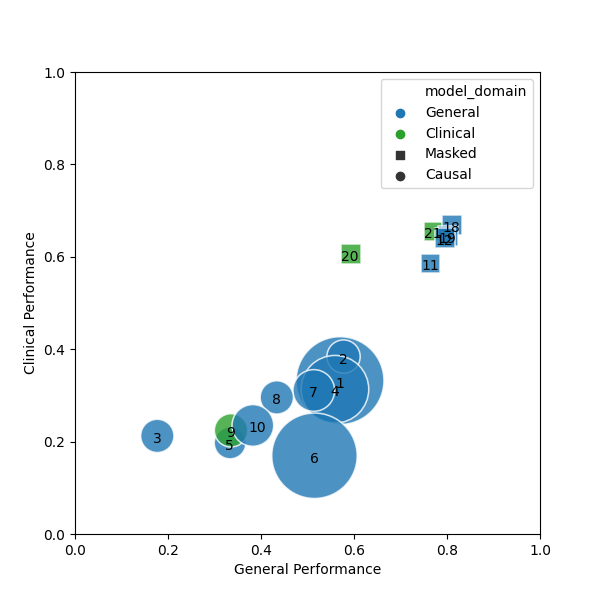
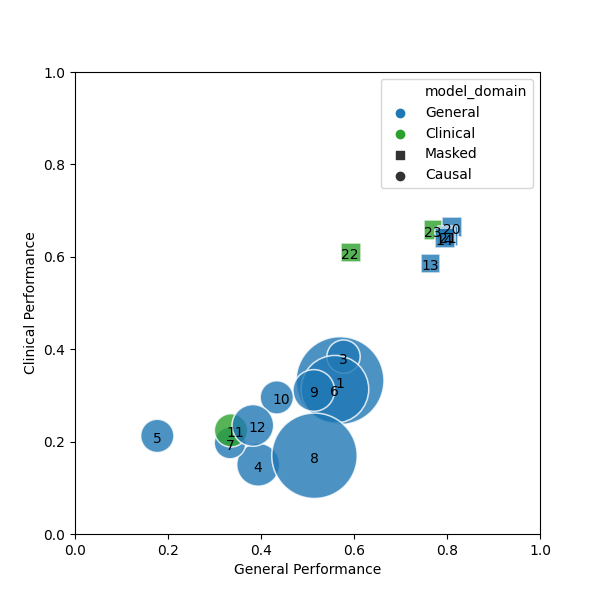
new results

diff --git a/tabs_and_plots/model_names_table.tex b/tabs_and_plots/model_names_table.tex
@@ -4,33 +4,35 @@
 \toprule
 & \# & Model & \makecell{Number of\\ parameters} & \makecell{Training data\\ size} & \makecell{Training corpus\\ language(s) and details} \\
 \midrule
-\multirow{10}{*}{\rotatebox[origin=c]{90}{Causal}} & 1 & LLAMA-2-70B\textsuperscript{\texttt{[en]}} \cite{touvron2023llama} & 70B & 2 trillion tokens & A mix of publicly available online data, mainly in English \\
- & 2 & Mistral-7B\textsuperscript{\texttt{[?]}} \cite{jiang2023mistral} & 7B & Undisclosed & Undisclosed \\
- & 3 & BLOOM-7B1\textsuperscript{\texttt{[en]}}\textsuperscript{\texttt{[fr]}}\textsuperscript{\texttt{[es]}} \cite{workshop2022bloom} & 7B & 1.6 TB & ROOTS \cite{laurenccon2022bigscience}, a mix of datasets and pseudo-crawled data 59 languages \\
- & 4 & Falcon-40B\textsuperscript{\texttt{[en]}}\textsuperscript{\texttt{[fr]}}\textsuperscript{\texttt{[es]}} & 40B & 1 trillion tokens & RefinedWeb \cite{penedo2023refinedweb}, a dataset of filtered and deduplicated web data \\
- & 5 & GPT-J-6B\textsuperscript{\texttt{[en]}} \cite{wang2021gptj} & 6B & 825 GiB & The Pile \cite{gao2020pile}, a mixture of public datasets and web data in English \\
- & 6 & OPT-66B\textsuperscript{\texttt{[en]}} \cite{zhang2022opt} & 66B & 180 billion tokens & Crawled data from the web, mainly in English \\
- & 7 & Vicuna-13B\textsuperscript{\texttt{[en]}}* \cite{zheng2023judging} & 13B & 125K conversations & LLAMA 2, fine-tuned on conversations collected from ShareGPT.com, mainly in English \\
- & 8 & Vicuna-7B\textsuperscript{\texttt{[en]}}* \cite{zheng2023judging} & 7B & 125K conversations & LLAMA 2, fine-tuned on conversations collected from ShareGPT.com, mainly in English \\
- & 9 & Medalpaca-7B\textsuperscript{\texttt{[en]}}* \cite{han2023medalpaca} & 7B & 400K Q.A. pairs & LLAMA 2, fine-tuned on semi-generated medical question-answer pairs in English \\
- & 10 & Vigogne-13B\textsuperscript{\texttt{[fr]}}\textsuperscript{\texttt{[en]}}* & 13B & 52K instructions & LLAMA 2, fine-tuned on English instructions automatically translated to French \\
+\multirow{12}{*}{\rotatebox[origin=c]{90}{Causal}} & 1 & LLAMA-2-70B\textsuperscript{\texttt{[en]}} \cite{touvron2023llama} & 70B & 2 trillion tokens & A mix of publicly available online data, mainly in English \\
+ & 2 & Llama-3-8B-Instruct\textsuperscript{\texttt{[en]}} & 8B & - & - \\
+ & 3 & Mistral-7B\textsuperscript{\texttt{[?]}} \cite{jiang2023mistral} & 7B & Undisclosed & Undisclosed \\
+ & 4 & Phi-3-medium-instruct\textsuperscript{\texttt{[en]}} & 14B & 4.8 trillion tokens & A combination of publicly available corpora, synthetic data and chat format supervised data, mainly in English \\
+ & 5 & BLOOM-7B1\textsuperscript{\texttt{[en]}}\textsuperscript{\texttt{[fr]}}\textsuperscript{\texttt{[es]}} \cite{workshop2022bloom} & 7B & 1.6 TB & ROOTS \cite{laurenccon2022bigscience}, a mix of datasets and pseudo-crawled data 59 languages \\
+ & 6 & Falcon-40B\textsuperscript{\texttt{[en]}}\textsuperscript{\texttt{[fr]}}\textsuperscript{\texttt{[es]}} & 40B & 1 trillion tokens & RefinedWeb \cite{penedo2023refinedweb}, a dataset of filtered and deduplicated web data \\
+ & 7 & GPT-J-6B\textsuperscript{\texttt{[en]}} \cite{wang2021gptj} & 6B & 825 GiB & The Pile \cite{gao2020pile}, a mixture of public datasets and web data in English \\
+ & 8 & OPT-66B\textsuperscript{\texttt{[en]}} \cite{zhang2022opt} & 66B & 180 billion tokens & Crawled data from the web, mainly in English \\
+ & 9 & Vicuna-13B\textsuperscript{\texttt{[en]}}* \cite{zheng2023judging} & 13B & 125K conversations & LLAMA 2, fine-tuned on conversations collected from ShareGPT.com, mainly in English \\
+ & 10 & Vicuna-7B\textsuperscript{\texttt{[en]}}* \cite{zheng2023judging} & 7B & 125K conversations & LLAMA 2, fine-tuned on conversations collected from ShareGPT.com, mainly in English \\
+ & 11 & Medalpaca-7B\textsuperscript{\texttt{[en]}}* \cite{han2023medalpaca} & 7B & 400K Q.A. pairs & LLAMA 2, fine-tuned on semi-generated medical question-answer pairs in English \\
+ & 12 & Vigogne-13B\textsuperscript{\texttt{[fr]}}\textsuperscript{\texttt{[en]}}* & 13B & 52K instructions & LLAMA 2, fine-tuned on English instructions automatically translated to French \\
 \midrule
-\multirow{16}{*}{\rotatebox[origin=c]{90}{Masked}} & 11 & mBERT\textsuperscript{\texttt{[en]}}\textsuperscript{\texttt{[fr]}}\textsuperscript{\texttt{[es]}} \cite{devlin2019bert} & 110M & Undisclosed & A corpus featuring 104 languages built from undisclosed sources \\
- & 12 & XLM-RoBERTa-large\textsuperscript{\texttt{[en]}}\textsuperscript{\texttt{[fr]}}\textsuperscript{\texttt{[es]}} \cite{conneau2020unsupervised} & 355M & 2.5 TB & Filtered CommonCrawl data containing 100 languages \\
- & 13 & BERT-large\textsuperscript{\texttt{[en]}} \cite{devlin2019bert} & 345M & 3,3 billion words & BookCorpus \cite{zhu2015aligning}, a dataset consisting of unpublished books and English Wikipedia. \\
- & 14 & RoBERTa-large\textsuperscript{\texttt{[en]}} \cite{liu2019roberta} & 355M & 160 GiB & BooksCorpus \cite{zhu2015aligning}, English Wikipedia, and crawled web data \\
- & 15 & Bio\_ClinicalBERT\textsuperscript{\texttt{[en]}} \cite{alsentzer2019publicly} & 110M & 2 million clinical notes & MIMIC-III \cite{johnson2016mimic}, a database containing electronic health records from hospitalized ICU patients \\
- & 16 & ClinicalBERT\textsuperscript{\texttt{[en]}} \cite{wang2023optimized} & 110M & 1.2 billion words & A large multi-center dataset with a corpus built from undisclosed sources \\
- & 17 & MedBERT\textsuperscript{\texttt{[en]}} \cite{charangan2022medbert} & 110M & 57 million words & Community datasets (including N2C2 \cite{luo2020n2c2}) and Crawled medical-related articles from Wikipedia \\
- & 18 & CamemBERT-large\textsuperscript{\texttt{[fr]}} \cite{martin2019camembert} & 335M & 64 billion tokens & OSCAR \cite{suarez2020monolingual}, a corpus of web data in French \\
- & 19 & FlauBERT-large\textsuperscript{\texttt{[fr]}} \cite{le2019flaubert} & 335M & 13 billion tokens & A mix of French Wikipedia, French books, and French web data \\
- & 20 & DrBERT-4GB\textsuperscript{\texttt{[fr]}} \cite{labrak2023drbert} & 110M & 1 billion words & A mix of publicly available biomedical corpora in French (including QuaeroFrenchMed \cite{neveol2014quaero}). \\
- & 21 & CamemBERT-bio\textsuperscript{\texttt{[fr]}} \cite{touchent2023camembertbio} & 110M & 413 million words & A mix of publicly available biomedical corpora in French (including E3C \cite{magnini2021e3c}). \\
- & 22 & BETO\textsuperscript{\texttt{[es]}} \cite{canete2020beto} & 110M & 3 billion words & Spanish Wikipedia and Spanish data from OPUS \cite{tiedemann2012parallel} \\
- & 23 & PatanaBERT\textsuperscript{\texttt{[es]}} & 110M & Undisclosed & Spanish \\
- & 24 & TulioBERT\textsuperscript{\texttt{[es]}} & 110M & Undisclosed & Spanish \\
- & 25 & BSC-BioEHR\textsuperscript{\texttt{[es]}} \cite{carrino2022pretrained} & 110M & 1.1 billion tokens & A mixture of biomedical community datasets including EHR documents and crawled data in Spanish \\
- & 26 & BSC-Bio\textsuperscript{\texttt{[es]}} \cite{carrino2022pretrained} & 110M & 963 million tokens & A mixture of biomedical community datasets and crawled data in Spanish \\
+\multirow{16}{*}{\rotatebox[origin=c]{90}{Masked}} & 13 & mBERT\textsuperscript{\texttt{[en]}}\textsuperscript{\texttt{[fr]}}\textsuperscript{\texttt{[es]}} \cite{devlin2019bert} & 110M & Undisclosed & A corpus featuring 104 languages built from undisclosed sources \\
+ & 14 & XLM-R-large\textsuperscript{\texttt{[en]}}\textsuperscript{\texttt{[fr]}}\textsuperscript{\texttt{[es]}} \cite{conneau2020unsupervised} & 355M & 2.5 TB & Filtered CommonCrawl data containing 100 languages \\
+ & 15 & BERT-large\textsuperscript{\texttt{[en]}} \cite{devlin2019bert} & 345M & 3,3 billion words & BookCorpus \cite{zhu2015aligning}, a dataset consisting of unpublished books and English Wikipedia. \\
+ & 16 & RoBERTa-large\textsuperscript{\texttt{[en]}} \cite{liu2019roberta} & 355M & 160 GiB & BooksCorpus \cite{zhu2015aligning}, English Wikipedia, and crawled web data \\
+ & 17 & Bio\_ClinicalBERT\textsuperscript{\texttt{[en]}} \cite{alsentzer2019publicly} & 110M & 2 million clinical notes & MIMIC-III \cite{johnson2016mimic}, a database containing electronic health records from hospitalized ICU patients \\
+ & 18 & ClinicalBERT\textsuperscript{\texttt{[en]}} \cite{wang2023optimized} & 110M & 1.2 billion words & A large multi-center dataset with a corpus built from undisclosed sources \\
+ & 19 & MedBERT\textsuperscript{\texttt{[en]}} \cite{charangan2022medbert} & 110M & 57 million words & Community datasets (including N2C2 \cite{luo2020n2c2}) and Crawled medical-related articles from Wikipedia \\
+ & 20 & CamemBERT-large\textsuperscript{\texttt{[fr]}} \cite{martin2019camembert} & 335M & 64 billion tokens & OSCAR \cite{suarez2020monolingual}, a corpus of web data in French \\
+ & 21 & FlauBERT-large\textsuperscript{\texttt{[fr]}} \cite{le2019flaubert} & 335M & 13 billion tokens & A mix of French Wikipedia, French books, and French web data \\
+ & 22 & DrBERT-4GB\textsuperscript{\texttt{[fr]}} \cite{labrak2023drbert} & 110M & 1 billion words & A mix of publicly available biomedical corpora in French (including QuaeroFrenchMed \cite{neveol2014quaero}). \\
+ & 23 & CamemBERT-bio\textsuperscript{\texttt{[fr]}} \cite{touchent2023camembertbio} & 110M & 413 million words & A mix of publicly available biomedical corpora in French (including E3C \cite{magnini2021e3c}). \\
+ & 24 & BETO\textsuperscript{\texttt{[es]}} \cite{canete2020beto} & 110M & 3 billion words & Spanish Wikipedia and Spanish data from OPUS \cite{tiedemann2012parallel} \\
+ & 25 & PatanaBERT\textsuperscript{\texttt{[es]}} & 110M & Undisclosed & Spanish \\
+ & 26 & TulioBERT\textsuperscript{\texttt{[es]}} & 110M & Undisclosed & Spanish \\
+ & 27 & BSC-BioEHR\textsuperscript{\texttt{[es]}} \cite{carrino2022pretrained} & 110M & 1.1 billion tokens & A mixture of biomedical community datasets including EHR documents and crawled data in Spanish \\
+ & 28 & BSC-Bio\textsuperscript{\texttt{[es]}} \cite{carrino2022pretrained} & 110M & 963 million tokens & A mixture of biomedical community datasets and crawled data in Spanish \\
 \bottomrule
 \end{tabular}}
 \caption{Characterization of the language models used in our experiments in terms of parameters and training corpus. Models marked with \textsuperscript{\texttt{[en]}} (respectively \textsuperscript{\texttt{[fr]}}, \textsuperscript{\texttt{[es]}}) are heavily trained on English (respectively French, Spanish). CLMs marked with * are fine-tuned versions of other CLMs.}

diff --git a/tabs_and_plots/results_table.tex b/tabs_and_plots/results_table.tex
@@ -8,33 +8,35 @@
 \midrule
  \multicolumn{17}{l}{\textit{Few-shot approaches}} \\
 \midrule
-\multirow{10}{*}{\rotatebox[origin=c]{90}{Causal}} & 1 & LLAMA-2-70B & 0.728 & 0.721 & 0.312 & 0.309 & 0.400 & 0.740 & 0.400 & 0.483 & 0.201 & 0.312 & 0.805 & 0.616 & 0.021 & 0.339 \\
- & 2 & Mistral-7B & 0.754 & 0.646 & 0.488 & 0.291 & 0.395 & 0.727 & 0.428 & 0.590 & 0.229 & 0.333 & 0.720 & 0.707 & 0.083 & 0.374 \\
- & 3 & BLOOM-7B1 & 0.524 & 0.557 & 0.279 & 0.113 & 0.151 & 0.148 & 0.206 & 0.320 & 0.197 & 0.120 & 0.470 & 0.419 & 0.051 & 0.117 \\
- & 4 & Falcon-40B & 0.686 & 0.708 & 0.280 & 0.279 & 0.305 & 0.662 & 0.456 & 0.378 & 0.279 & 0.283 & 0.720 & 0.543 & 0.072 & 0.267 \\
- & 5 & GPT-J-6B & 0.521 & 0.493 & 0.167 & 0.179 & 0.238 & 0.423 & 0.244 & 0.334 & 0.080 & 0.177 & 0.005 & 0.142 & 0.021 & 0.162 \\
- & 6 & OPT-66B & 0.608 & 0.495 & 0.227 & 0.157 & 0.234 & 0.624 & 0.406 & 0.019 & 0.206 & 0.283 & 0.166 & 0.273 & 0.043 & 0.204 \\
- & 7 & Vicuna-13B & 0.657 & 0.708 & 0.355 & 0.236 & 0.300 & 0.677 & 0.350 & 0.399 & 0.207 & 0.326 & 0.744 & 0.250 & 0.040 & 0.213 \\
- & 8 & Vicuna-7B & 0.594 & 0.489 & 0.259 & 0.147 & 0.172 & 0.591 & 0.277 & 0.439 & 0.152 & 0.296 & 0.659 & 0.569 & 0.042 & 0.151 \\
- & 9 & Medalpaca-7B & 0.537 & 0.586 & 0.272 & 0.138 & 0.132 & 0.529 & 0.142 & 0.259 & 0.162 & 0.252 & 0.581 & 0.490 & 0.088 & 0.220 \\
- & 10 & Vigogne-13B & 0.593 & 0.655 & 0.252 & 0.176 & 0.309 & 0.515 & 0.250 & 0.464 & 0.099 & 0.142 & 0.580 & 0.561 & 0.010 & 0.198 \\
+\multirow{12}{*}{\rotatebox[origin=c]{90}{Causal}} & 1 & LLAMA-2-70B & 0.728 & 0.721 & 0.312 & 0.309 & 0.400 & 0.740 & 0.400 & 0.483 & 0.201 & 0.312 & 0.805 & 0.616 & 0.021 & 0.339 \\
+ & 2 & Llama-3-8B-Instruct & - & 0.727 & - & - & - & - & - & - & - & - & - & - & - & - \\
+ & 3 & Mistral-7B & 0.754 & 0.646 & 0.488 & 0.291 & 0.395 & 0.727 & 0.428 & 0.590 & 0.229 & 0.333 & 0.720 & 0.707 & 0.083 & 0.374 \\
+ & 4 & Phi-3-medium-instruct & 0.464 & 0.302 & - & 0.112 & 0.178 & 0.394 & - & - & 0.139 & 0.161 & - & - & - & 0.280 \\
+ & 5 & BLOOM-7B1 & 0.524 & 0.557 & 0.279 & 0.113 & 0.151 & 0.148 & 0.206 & 0.320 & 0.197 & 0.120 & 0.470 & 0.419 & 0.051 & 0.117 \\
+ & 6 & Falcon-40B & 0.686 & 0.708 & 0.280 & 0.279 & 0.305 & 0.662 & 0.456 & 0.378 & 0.279 & 0.283 & 0.720 & 0.543 & 0.072 & 0.267 \\
+ & 7 & GPT-J-6B & 0.521 & 0.493 & 0.167 & 0.179 & 0.238 & 0.423 & 0.244 & 0.334 & 0.080 & 0.177 & 0.005 & 0.142 & 0.021 & 0.162 \\
+ & 8 & OPT-66B & 0.608 & 0.495 & 0.227 & 0.157 & 0.234 & 0.624 & 0.406 & 0.019 & 0.206 & 0.283 & 0.166 & 0.273 & 0.043 & 0.204 \\
+ & 9 & Vicuna-13B & 0.657 & 0.708 & 0.355 & 0.236 & 0.300 & 0.677 & 0.350 & 0.399 & 0.207 & 0.326 & 0.744 & 0.250 & 0.040 & 0.213 \\
+ & 10 & Vicuna-7B & 0.594 & 0.489 & 0.259 & 0.147 & 0.172 & 0.591 & 0.277 & 0.439 & 0.152 & 0.296 & 0.659 & 0.569 & 0.042 & 0.151 \\
+ & 11 & Medalpaca-7B & 0.537 & 0.586 & 0.272 & 0.138 & 0.132 & 0.529 & 0.142 & 0.259 & 0.162 & 0.252 & 0.581 & 0.490 & 0.088 & 0.220 \\
+ & 12 & Vigogne-13B & 0.593 & 0.655 & 0.252 & 0.176 & 0.309 & 0.515 & 0.250 & 0.464 & 0.099 & 0.142 & 0.580 & 0.561 & 0.010 & 0.198 \\
 \midrule
-\multirow{16}{*}{\rotatebox[origin=c]{90}{Masked}} & 11 & mBERT & 0.768 & 0.804 & 0.624 & 0.378 & 0.401 & 0.801 & 0.728 & 0.741 & 0.588 & 0.428 & 0.812 & 0.760 & 0.324 & 0.432 \\
- & 12 & XLM-RoBERTa-large & 0.786 & 0.826 & 0.637 & 0.462 & 0.471 & 0.811 & 0.781 & 0.762 & 0.629 & 0.531 & 0.797 & 0.781 & 0.325 & 0.528 \\
- & 13 & BERT-large & 0.776 & 0.835 & 0.626 & 0.435 & 0.422 & - & - & - & - & - & - & - & - & - \\
- & 14 & RoBERTa-large & 0.790 & 0.862 & 0.626 & 0.462 & 0.552 & - & - & - & - & - & - & - & - & - \\
- & 15 & Bio\_ClinicalBERT & 0.528 & 0.542 & 0.621 & 0.469 & 0.420 & - & - & - & - & - & - & - & - & - \\
- & 16 & ClinicalBERT & 0.462 & 0.597 & 0.622 & 0.480 & 0.397 & - & - & - & - & - & - & - & - & - \\
- & 17 & MedBERT & 0.613 & 0.673 & 0.607 & 0.478 & 0.504 & - & - & - & - & - & - & - & - & - \\
- & 18 & CamemBERT-large & - & - & - & - & - & 0.829 & 0.793 & 0.768 & 0.661 & 0.577 & - & - & - & - \\
- & 19 & FlauBERT-large & - & - & - & - & - & 0.826 & 0.778 & 0.760 & 0.635 & 0.542 & - & - & - & - \\
- & 20 & DrBERT-4GB & - & - & - & - & - & 0.587 & 0.599 & 0.730 & 0.602 & 0.486 & - & - & - & - \\
- & 21 & CamemBERT-bio & - & - & - & - & - & 0.782 & 0.761 & 0.779 & 0.636 & 0.549 & - & - & - & - \\
- & 22 & BETO & - & - & - & - & - & - & - & - & - & - & 0.794 & 0.732 & 0.352 & 0.522 \\
- & 23 & PatanaBERT & - & - & - & - & - & - & - & - & - & - & 0.802 & 0.769 & 0.343 & 0.487 \\
- & 24 & TulioBERT & - & - & - & - & - & - & - & - & - & - & 0.804 & 0.798 & 0.340 & 0.482 \\
- & 25 & BSC-BioEHR & - & - & - & - & - & - & - & - & - & - & 0.804 & 0.758 & 0.354 & 0.578 \\
- & 26 & BSC-Bio & - & - & - & - & - & - & - & - & - & - & 0.804 & 0.775 & 0.358 & 0.552 \\
+\multirow{16}{*}{\rotatebox[origin=c]{90}{Masked}} & 13 & mBERT & 0.768 & 0.804 & 0.624 & 0.378 & 0.401 & 0.801 & 0.728 & 0.741 & 0.588 & 0.428 & 0.812 & 0.760 & 0.324 & 0.432 \\
+ & 14 & XLM-R-large & 0.786 & 0.826 & 0.637 & 0.462 & 0.471 & 0.811 & 0.781 & 0.762 & 0.629 & 0.531 & 0.797 & 0.781 & 0.325 & 0.528 \\
+ & 15 & BERT-large & 0.776 & 0.814 & 0.626 & 0.435 & 0.422 & - & - & - & - & - & - & - & - & - \\
+ & 16 & RoBERTa-large & 0.790 & 0.829 & 0.626 & 0.462 & 0.552 & - & - & - & - & - & - & - & - & - \\
+ & 17 & Bio\_ClinicalBERT & 0.528 & 0.542 & 0.621 & 0.469 & 0.420 & - & - & - & - & - & - & - & - & - \\
+ & 18 & ClinicalBERT & 0.462 & 0.597 & 0.622 & 0.480 & 0.397 & - & - & - & - & - & - & - & - & - \\
+ & 19 & MedBERT & 0.613 & 0.673 & 0.607 & 0.478 & 0.504 & - & - & - & - & - & - & - & - & - \\
+ & 20 & CamemBERT-large & - & - & - & - & - & 0.829 & 0.793 & 0.768 & 0.661 & 0.564 & - & - & - & - \\
+ & 21 & FlauBERT-large & - & - & - & - & - & 0.826 & 0.778 & 0.760 & 0.635 & 0.540 & - & - & - & - \\
+ & 22 & DrBERT-4GB & - & - & - & - & - & 0.587 & 0.599 & 0.730 & 0.602 & 0.497 & - & - & - & - \\
+ & 23 & CamemBERT-bio & - & - & - & - & - & 0.782 & 0.761 & 0.779 & 0.636 & 0.557 & - & - & - & - \\
+ & 24 & BETO & - & - & - & - & - & - & - & - & - & - & 0.794 & 0.732 & 0.352 & 0.522 \\
+ & 25 & PatanaBERT & - & - & - & - & - & - & - & - & - & - & 0.802 & 0.769 & 0.343 & 0.487 \\
+ & 26 & TulioBERT & - & - & - & - & - & - & - & - & - & - & 0.804 & 0.798 & 0.340 & 0.482 \\
+ & 27 & BSC-BioEHR & - & - & - & - & - & - & - & - & - & - & 0.804 & 0.758 & 0.354 & 0.578 \\
+ & 28 & BSC-Bio & - & - & - & - & - & - & - & - & - & - & 0.804 & 0.775 & 0.358 & 0.552 \\
 \midrule
 \midrule
 \multicolumn{17}{l}{\textit{Masked fully-supervised (skyline)}} \\

diff --git a/read_results.py b/read_results.py
@@ -113,7 +113,7 @@ model_hierarchy = {
             },
             {
                 "name": "xlm-roberta-large",
-                "clean_name": "XLM-RoBERTa-large",
+                "clean_name": "XLM-R-large",
                 "size": 355*M,
                 "languages" : "all",
                 "training_data_languages": "Filtered CommonCrawl data containing 100 languages",
@@ -259,6 +259,16 @@ model_hierarchy = {
                 "language_markers": ["en", "fr", "es"],
             },
             {
+                "name": "Phi-3-medium-4k-instruct",
+                "clean_name": "Phi-3-medium-instruct",
+                "size": 14*B,
+                "languages" : "all",
+                "training_data_size": "4.8 trillion tokens",
+                "training_data_languages": "A combination of publicly available corpora, synthetic data and chat format supervised data, mainly in English",
+                "language_markers": ["en"],
+                "reference" : "-",
+            },
+            {
                 "name": "vigogne-2-13b-instruct",
                 "clean_name": "Vigogne-13B",
                 "size": 13*B,
@@ -277,7 +287,18 @@ model_hierarchy = {
                 "reference": "wang2021gptj",
                 "language_markers": ["en"],
             },
-           {
+            {
+                "name" : "Meta-Llama-3-8B-Instruct",
+                "clean_name" : "Llama-3-8B-Instruct",
+                "size" : 8*B,
+                "languages" : "all",
+                "training_data_size": "-",
+                "training_data_languages": "-",
+                "reference": "-",
+                "language_markers": ["en"],
+
+            },
+            {
                 "name" : "opt-66b",
                 "clean_name": "OPT-66B",
                 "size": 66*B,

diff --git a/tabs_and_plots/sampling.tex b/tabs_and_plots/sampling.tex
@@ -10,7 +10,7 @@
 \midrule
 \midrule
 Mistral-7B & 0.646 & 0.626 & 0.714 & 0.291 & 0.178 & 0.215 \\
-XLM-RoBERTa-large & 0.826 & 0.814 & 0.786 & 0.462 & 0.478 & 0.526 \\
+XLM-R-large & 0.826 & 0.814 & 0.786 & 0.462 & 0.478 & 0.526 \\
 \midrule
 \midrule
 \multicolumn{5}{c}{\textit{50 annotated instances}} \\
@@ -19,7 +19,7 @@ XLM-RoBERTa-large & 0.826 & 0.814 & 0.786 & 0.462 & 0.478 & 0.526 \\
 \midrule
 \midrule
 Mistral-7B & 0.615 & 0.648 & 0.637 & 0.278 & 0.176 & 0.106 \\
-XLM-RoBERTa-large & 0.697 & 0.77 & 0.714 & 0.431 & 0.476 & 0.35 \\
+XLM-R-large & 0.697 & 0.77 & 0.714 & 0.431 & 0.476 & 0.35 \\
 \midrule
 \midrule
 \multicolumn{5}{c}{\textit{25 annotated instances}} \\
@@ -28,7 +28,7 @@ XLM-RoBERTa-large & 0.697 & 0.77 & 0.714 & 0.431 & 0.476 & 0.35 \\
 \midrule
 \midrule
 Mistral-7B & 0.509 & 0.599 & 0.52 & 0.152 & 0.252 & 0.116 \\
-XLM-RoBERTa-large & 0.487 & 0.588 & 0.637 & 0.393 & 0.361 & 0.283 \\
+XLM-R-large & 0.487 & 0.588 & 0.637 & 0.393 & 0.361 & 0.283 \\
 \bottomrule
 \end{tabular}}\caption{F1 scores obtained over experiments with different training samples and different training sample sizes.}
 \label{tab:sampling}
